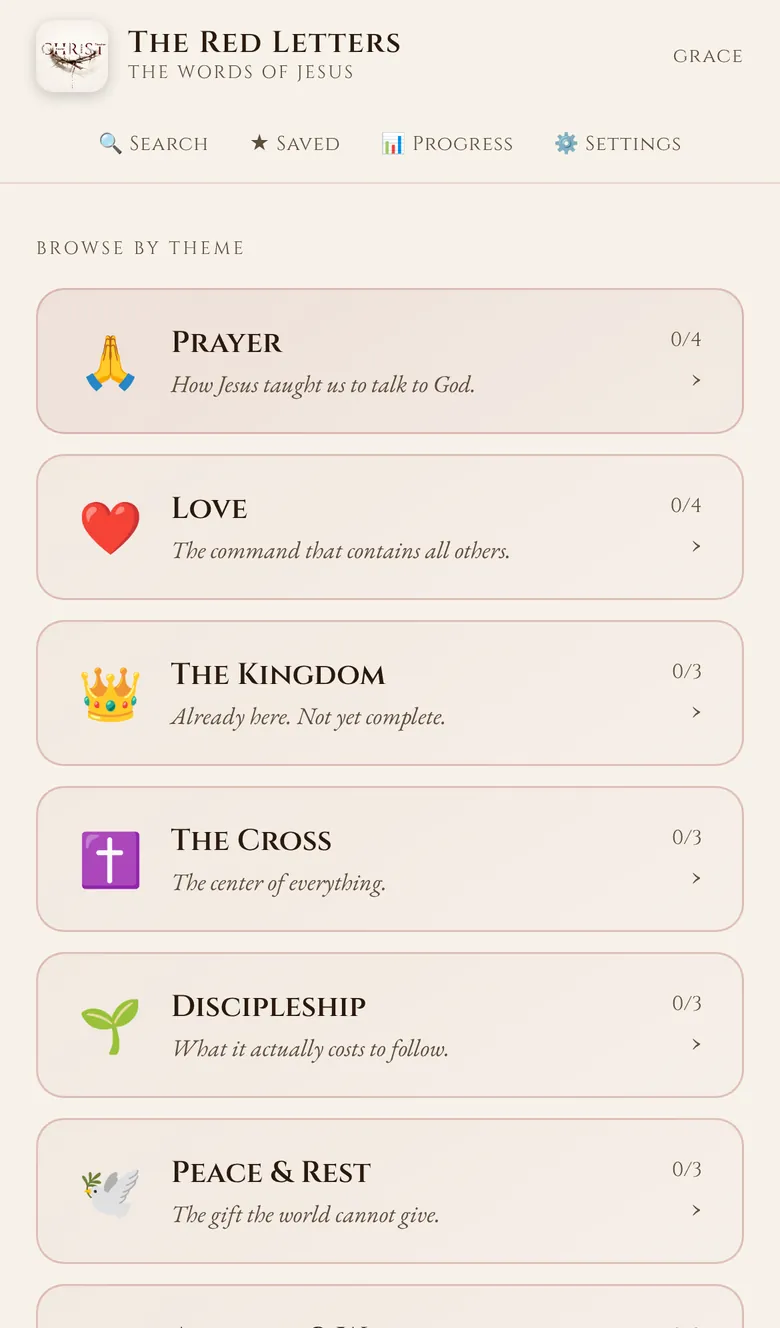
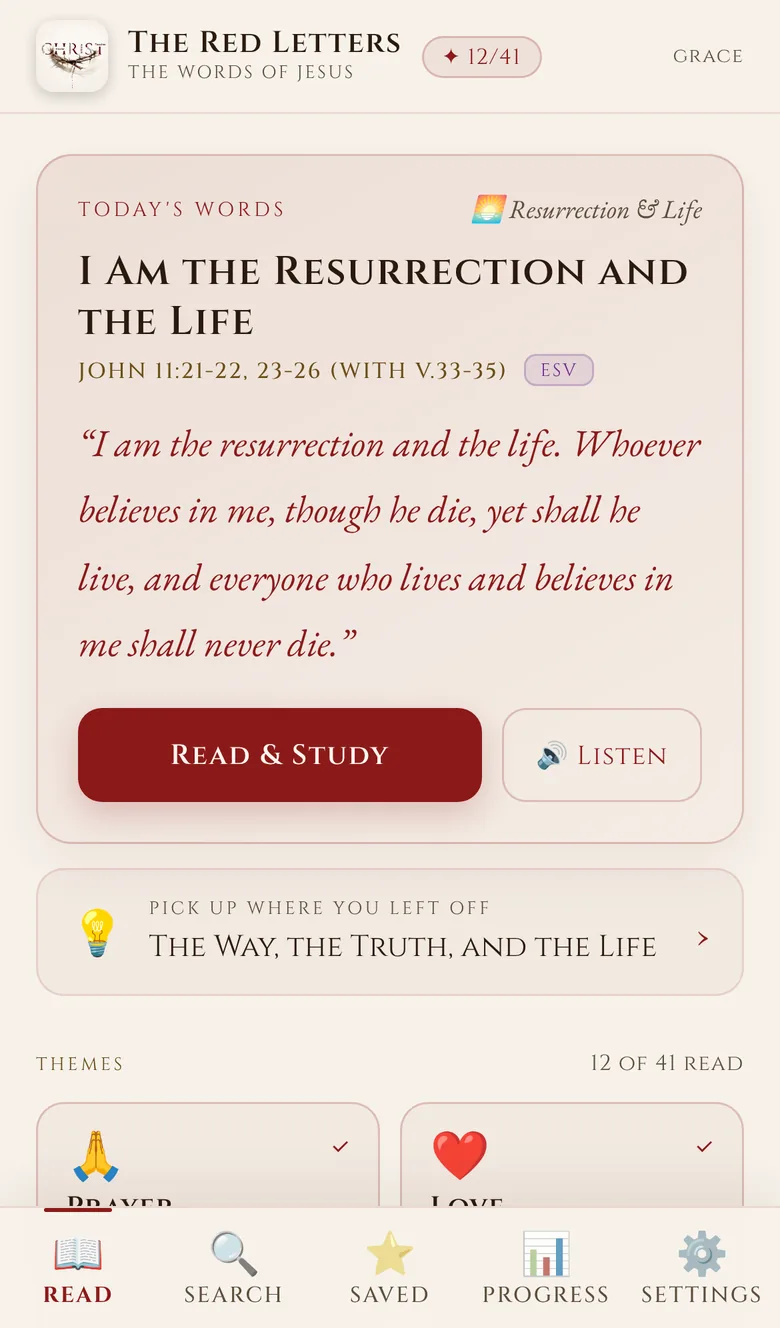
The Red Letters page matches the redesigned app
New screenshots (Today's Words home, the passage with its seven-section bar, Word Study,
Pray It), captions and gallery order; 'seven study sections' wording; Listen and Memorize
on The Passage; featureList and screenshot order in the structured data; sitemap image
titles. The home page's Red Letters preview uses the new passage screen.

Claude-Session: https://claude.ai/code/session_016zkMqJgJcacXo898rxFWzc

diff --git a/red-letters.html b/red-letters.html
@@ -179,8 +179,8 @@
   <meta name="twitter:title" content="The Red Letters | The Complete Words of Jesus — Free App" />
   <meta name="twitter:description" content="Study the complete words of Jesus — every red-letter passage organized by theme, with context, meaning, Greek word study with audio, application, prayer, and journal. Completely free." />
   <meta name="twitter:image" content="https://eloraradiance.com/assets/red-letters-icon.png" />
-  <script type="application/ld+json">{"@context": "https://schema.org", "@type": "SoftwareApplication", "name": "The Red Letters", "applicationCategory": "ReferenceApplication", "applicationSubCategory": "Bible Study", "operatingSystem": "Web, iOS, Android", "url": "https://redletters.eloraradiance.com", "description": "The complete words of Jesus organized into 14 themes and 41 complete passages with Greek word study, audio pronunciation, context, meaning, application, prayer, and journal.", "image": "https://eloraradiance.com/assets/red-letters-icon.png", "publisher": {"@type": "Organization", "name": "Elora Radiance Co.", "legalName": "Elora Radiance Co. LLC"}, "offers": {"@type": "Offer", "price": "0", "priceCurrency": "USD"}, "featureList": "14 themes, 41 complete passages, Greek word study with audio, contextual study layers, written prayer for each passage, personal journal, daily reminders at the time you choose", "screenshot": ["https://eloraradiance.com/assets/screens/rl-1-themes.webp", "https://eloraradiance.com/assets/screens/rl-2-prayer.webp", "https://eloraradiance.com/assets/screens/rl-3-passage.webp", "https://eloraradiance.com/assets/screens/rl-4-word-study.webp"]}</script>
-  <script type="application/ld+json">{"@context": "https://schema.org", "@type": "FAQPage", "mainEntity": [{"@type": "Question", "name": "Is The Red Letters really free?", "acceptedAnswer": {"@type": "Answer", "text": "Yes. The Red Letters is completely free. No subscription, no in-app purchases, no ads. Every passage and every study layer is available without cost."}}, {"@type": "Question", "name": "What translation does The Red Letters use?", "acceptedAnswer": {"@type": "Answer", "text": "Each passage is presented in ESV translation by default, with the original Greek studied in the Word Study section. You can hear the original Greek pronunciation by tapping any word."}}, {"@type": "Question", "name": "How is The Red Letters different from a regular Bible app?", "acceptedAnswer": {"@type": "Answer", "text": "Most Bible apps give you verses. The Red Letters gives you complete teachings of Jesus in their full context, organized by theme — not chronologically. Each passage opens into seven study layers including Greek word study with audio pronunciation."}}, {"@type": "Question", "name": "Do I need an account to use it?", "acceptedAnswer": {"@type": "Answer", "text": "Yes. A free account (just your email and a password) opens the app and saves your journal entries, memorization progress, and bookmarks across devices. Already have an Anchored Steps or Armed & Anchored account? Sign in with it. One login works across every Elora Radiance app."}}]}</script>
+  <script type="application/ld+json">{"@context": "https://schema.org", "@type": "SoftwareApplication", "name": "The Red Letters", "applicationCategory": "ReferenceApplication", "applicationSubCategory": "Bible Study", "operatingSystem": "Web, iOS, Android", "url": "https://redletters.eloraradiance.com", "description": "The complete words of Jesus organized into 14 themes and 41 complete passages with Greek word study, audio pronunciation, context, meaning, application, prayer, and journal.", "image": "https://eloraradiance.com/assets/red-letters-icon.png", "publisher": {"@type": "Organization", "name": "Elora Radiance Co.", "legalName": "Elora Radiance Co. LLC"}, "offers": {"@type": "Offer", "price": "0", "priceCurrency": "USD"}, "featureList": "14 themes, 41 complete passages, Today's Words (a passage a day), seven study sections per passage, Greek word study with audio, listen to any passage read aloud, memorize tool with three methods, written prayer for each passage, personal journal, daily reminders at the time you choose", "screenshot": ["https://eloraradiance.com/assets/screens/rl-1-themes.webp", "https://eloraradiance.com/assets/screens/rl-3-passage.webp", "https://eloraradiance.com/assets/screens/rl-4-word-study.webp", "https://eloraradiance.com/assets/screens/rl-2-prayer.webp"]}</script>
+  <script type="application/ld+json">{"@context": "https://schema.org", "@type": "FAQPage", "mainEntity": [{"@type": "Question", "name": "Is The Red Letters really free?", "acceptedAnswer": {"@type": "Answer", "text": "Yes. The Red Letters is completely free. No subscription, no in-app purchases, no ads. Every passage and every study layer is available without cost."}}, {"@type": "Question", "name": "What translation does The Red Letters use?", "acceptedAnswer": {"@type": "Answer", "text": "Each passage is presented in ESV translation by default, with the original Greek studied in the Word Study section. You can hear the original Greek pronunciation by tapping any word."}}, {"@type": "Question", "name": "How is The Red Letters different from a regular Bible app?", "acceptedAnswer": {"@type": "Answer", "text": "Most Bible apps give you verses. The Red Letters gives you complete teachings of Jesus in their full context, organized by theme — not chronologically. Each passage opens into seven study sections, including Greek word study with audio pronunciation."}}, {"@type": "Question", "name": "Do I need an account to use it?", "acceptedAnswer": {"@type": "Answer", "text": "Yes. A free account (just your email and a password) opens the app and saves your journal entries, memorization progress, and bookmarks across devices. Already have an Anchored Steps or Armed & Anchored account? Sign in with it. One login works across every Elora Radiance app."}}]}</script>
   
   <!-- Home Screen / PWA icons -->
   <link rel="icon" type="image/png" href="/assets/app-icon.png" />
@@ -241,27 +241,27 @@
     <div class="section-inner">
       <p class="eyebrow reveal">Inside the App</p>
       <h2 class="s-title reveal" id="inside-title">Take a Look Inside</h2>
-      <p class="s-body reveal">The words of Jesus by theme, as full passages, with the setting, the meaning and the original words.</p>
+      <p class="s-body reveal">A passage a day, the words of Jesus by theme, and seven study sections on every passage.</p>
       <ul class="shots" tabindex="0" aria-label="The Red Letters screenshots">
         <li class="shot reveal">
-          <div class="shot-frame"><img src="assets/screens/rl-1-themes.webp" width="780" height="1328" loading="lazy" decoding="async" alt="The Red Letters app screen: 14 Themes. The words of Jesus, organized by what you’re facing."/></div>
-          <span class="shot-name">14 Themes</span>
-          <span class="shot-desc">The words of Jesus, organized by what you’re facing.</span>
+          <div class="shot-frame"><img src="assets/screens/rl-1-themes.webp" width="780" height="1328" loading="lazy" decoding="async" alt="The Red Letters app screen: Today’s Words. A passage a day, with all 14 themes a tap away."/></div>
+          <span class="shot-name">Today’s Words</span>
+          <span class="shot-desc">A passage a day, with all 14 themes a tap away.</span>
         </li>
         <li class="shot reveal d1">
-          <div class="shot-frame"><img src="assets/screens/rl-2-prayer.webp" width="780" height="1328" loading="lazy" decoding="async" alt="The Red Letters app screen: Read by Theme. Full red-letter passages, never fragments."/></div>
-          <span class="shot-name">Read by Theme</span>
-          <span class="shot-desc">Full red-letter passages, never fragments.</span>
+          <div class="shot-frame"><img src="assets/screens/rl-3-passage.webp" width="780" height="1328" loading="lazy" decoding="async" alt="The Red Letters app screen: Seven Study Sections. Passage, context, meaning, word study, live it, pray it, journal."/></div>
+          <span class="shot-name">Seven Study Sections</span>
+          <span class="shot-desc">Passage, context, meaning, word study, live it, pray it, journal.</span>
         </li>
         <li class="shot reveal d2">
-          <div class="shot-frame"><img src="assets/screens/rl-3-passage.webp" width="780" height="1328" loading="lazy" decoding="async" alt="The Red Letters app screen: Seven Study Layers. Passage, context, meaning, lexicon, live it, pray it, journal."/></div>
-          <span class="shot-name">Seven Study Layers</span>
-          <span class="shot-desc">Passage, context, meaning, lexicon, live it, pray it, journal.</span>
-        </li>
-        <li class="shot reveal d3">
           <div class="shot-frame"><img src="assets/screens/rl-4-word-study.webp" width="780" height="1328" loading="lazy" decoding="async" alt="The Red Letters app screen: Original Words. The Greek and Aramaic behind what Jesus said."/></div>
           <span class="shot-name">Original Words</span>
           <span class="shot-desc">The Greek and Aramaic behind what Jesus said.</span>
+        </li>
+        <li class="shot reveal d3">
+          <div class="shot-frame"><img src="assets/screens/rl-2-prayer.webp" width="780" height="1328" loading="lazy" decoding="async" alt="The Red Letters app screen: Pray It. A prayer from the text, to pray back to the Father."/></div>
+          <span class="shot-name">Pray It</span>
+          <span class="shot-desc">A prayer from the text, to pray back to the Father.</span>
         </li>
       </ul>
       <p class="shots-hint">Swipe to see more →</p>
@@ -305,10 +305,10 @@
   <section class="section">
     <div class="section-inner">
       <p class="eyebrow reveal">How It Works</p>
-      <h2 class="s-title reveal">Seven Study Layers on Every Passage</h2>
+      <h2 class="s-title reveal">Seven Study Sections on Every Passage</h2>
       <p class="s-body reveal">Each passage opens into a complete study experience — not a devotional that skims the surface, but a full encounter with what Jesus said and meant.</p>
       <div class="layers-list">
-        <div class="layer reveal d1"><span class="layer-icon">📖</span><div><div class="layer-name">The Passage</div><div class="layer-desc">The full red-letter text — every word Jesus spoke in that passage, exactly as recorded, nothing cut for brevity.</div></div></div>
+        <div class="layer reveal d1"><span class="layer-icon">📖</span><div><div class="layer-name">The Passage</div><div class="layer-desc">The full red-letter text — every word Jesus spoke in that passage, exactly as recorded, nothing cut for brevity. Tap Listen to hear it read aloud, or Memorize to learn it by heart.</div></div></div>
         <div class="layer reveal d1"><span class="layer-icon">🧭</span><div><div class="layer-name">Context</div><div class="layer-desc">Where He was, who He was talking to, and what had just happened. Setting shapes meaning — you get the full picture.</div></div></div>
         <div class="layer reveal d2"><span class="layer-icon">💡</span><div><div class="layer-name">Meaning</div><div class="layer-desc">What Jesus meant — unpacking the theology, the original context, and what was at stake in what He said.</div></div></div>
         <div class="layer reveal d2"><span class="layer-icon">📚</span><div><div class="layer-name">Word Study</div><div class="layer-desc">The key Greek words behind every passage — what each one actually meant in the first century. Tap to hear the original pronunciation aloud.</div></div></div>
